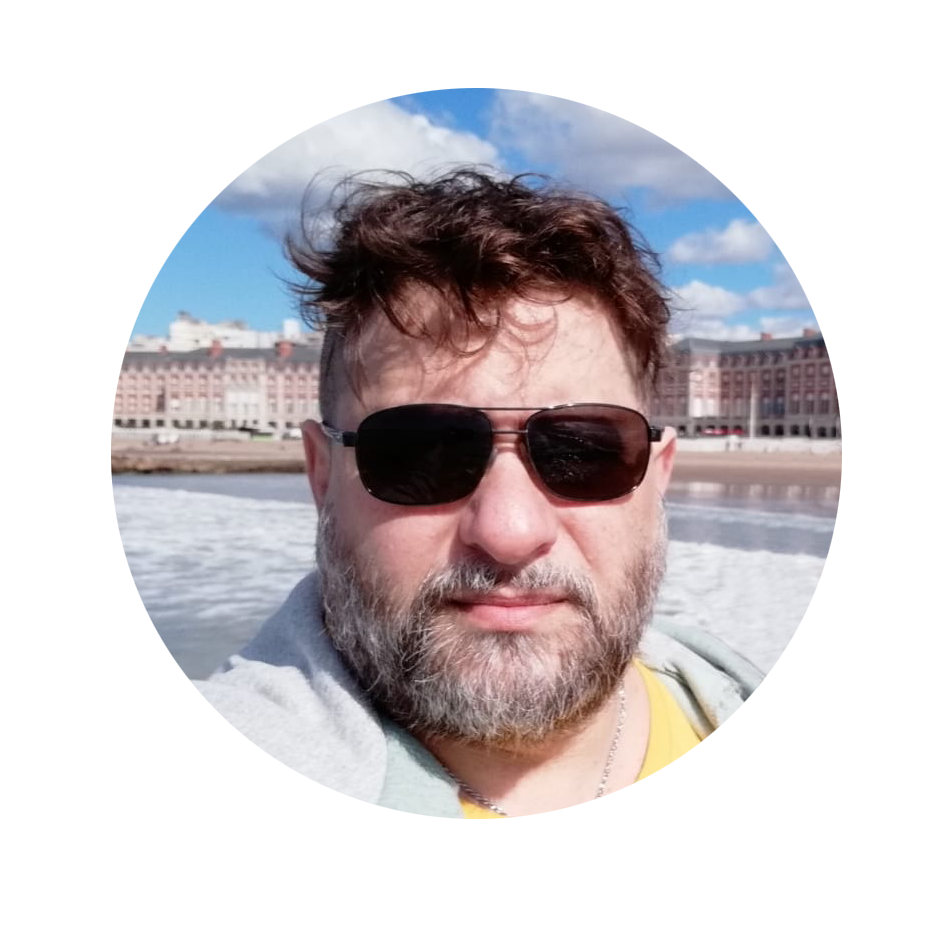
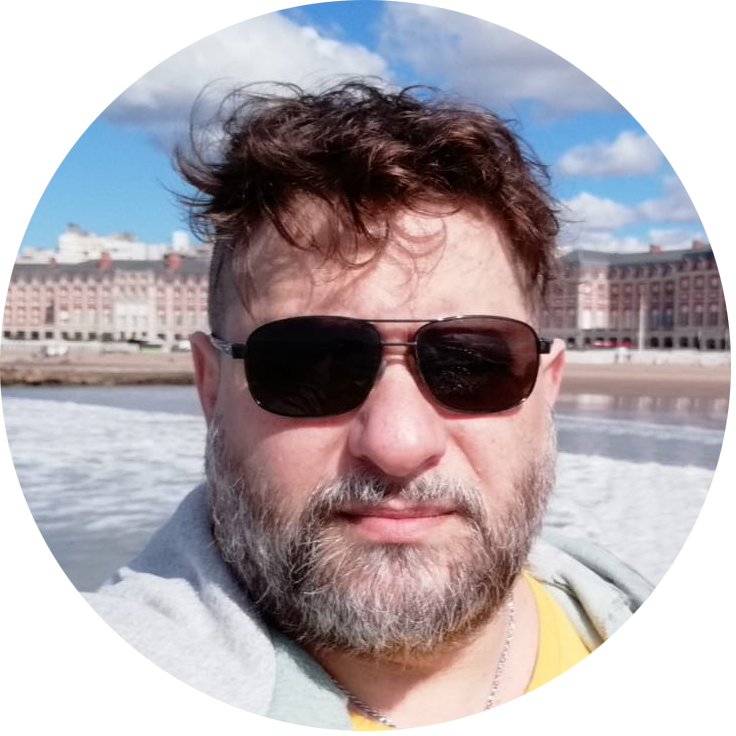
Ajustes varios

diff --git a/index.html b/index.html
@@ -6,15 +6,17 @@
   <meta http-equiv="X-UA-Compatible" content="IE=edge">
   <meta name="viewport" content="width=device-width, initial-scale=1.0">
   <title>CV Proyecto Final</title>
+  <link rel="stylesheet" href="estilos.css">
 </head>
 
 <body>
-  <img src="imagenes/perfil.png" width="200">
+
   <div id="menu">
+    <img src="imagenes/perfil.png" width="150" class="sombra">
     <ul>
       <li><a href="#sobre-mi">Sobre mi</a></li>
       <li><a href="#estudios">Estudio</a></li>
-      <li><a href="#experiencia">Exeriencia</a></li>
+      <li><a href="#experiencia">Experiencia</a></li>
       <li><a href="#trabajos">Trabajos</a></li>
       <li><a href="#contacto">Contacto</a></li>
     </ul>

diff --git a/estilos.css b/estilos.css
@@ -1,0 +1,27 @@
+body {
+    background-color: rgb(79, 96, 88);
+    color: aliceblue;
+}
+ul {
+    list-style-type: none;
+    margin: 0;
+    padding: 0;
+    width: 100px;
+}
+li a {
+    display: block;
+    color: #f4f0f0;
+    padding: 8px 16px;
+    text-decoration: beige;
+}
+li a:hover {
+    background-color: #d3d3d3;
+    color: rgb(0, 0, 0);
+}
+li {
+    text-align: center;
+}
+.sombra {
+    box-shadow: 0 4px 8px 0 rgba(0, 0, 0, 0.2), 0 6px 20px 0 rgba(0, 0, 0, 0.19);
+    border-radius: 50%;
+}
